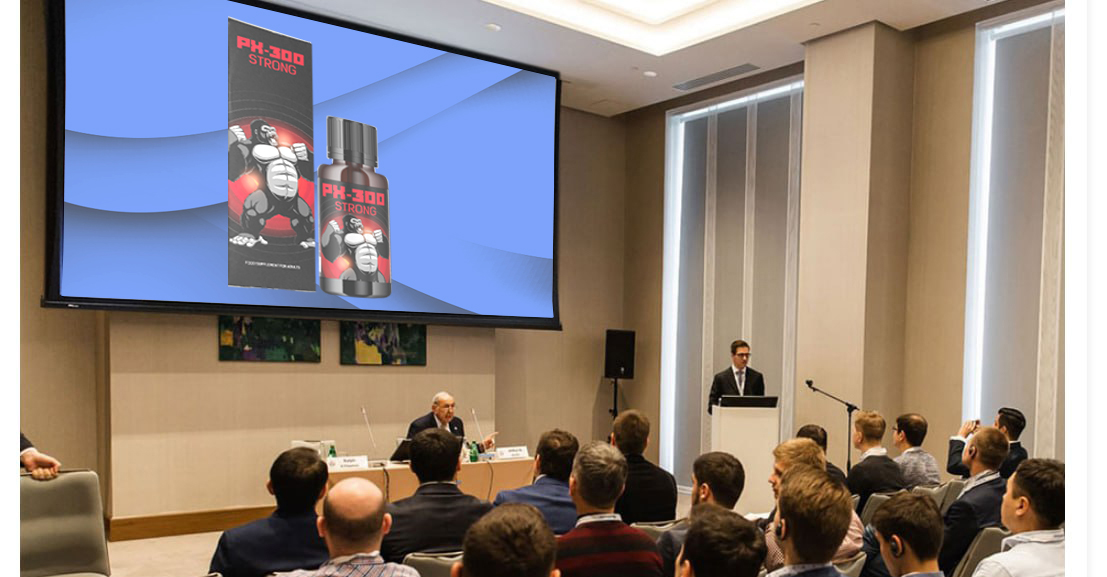
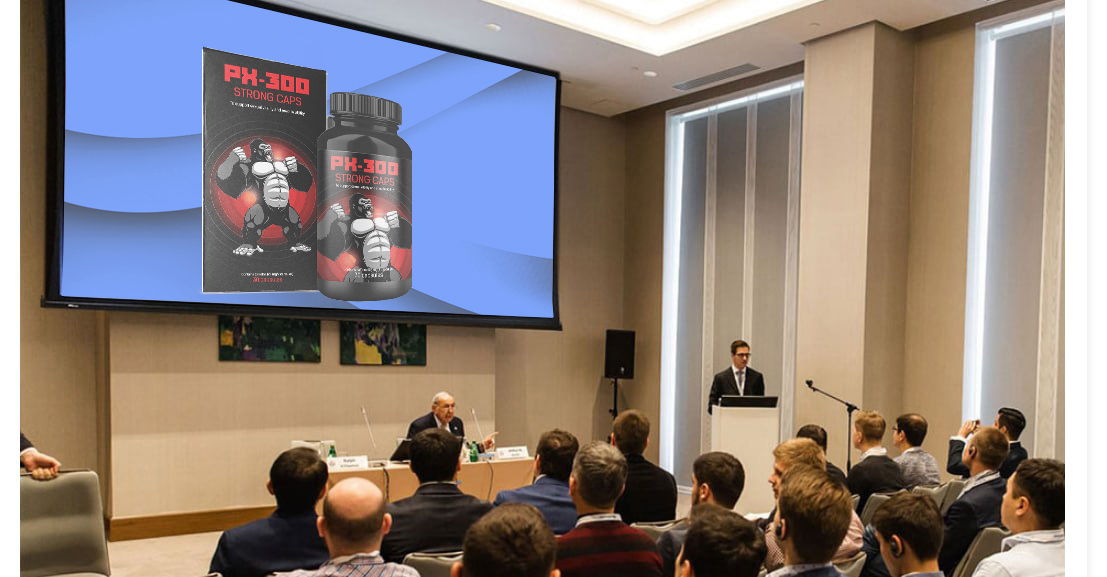
Changed prod to caps

Changed region(s): [[0.1843, 0.0312, 0.3993, 0.5303]]

diff --git a/index.html b/index.html
@@ -554,7 +554,9 @@
                         </span>
                     <div class="text3">
                         <img src="images/pics/review-4.jpeg" style="float: left; padding-right: 10px;" alt>Non me lo aspettavo, ma ha funzionato! Rimane duro come una roccia! Mia moglie è soddisfatta!
-
+                      <p>
+                        <img style="width:200px !important;" src="images/pics/pic-comment-3.jpg">
+                      </p>
                     </div>
                 </div>
                 
@@ -587,7 +589,9 @@
                         </span>
                     <div class="text3">
                         <img src="images/16.jpg" style="float: left; padding-right: 10px;" alt>Voglio condividere la mia recensione anch'io! Inizialmente, quando ordinavo il PX-300, avevo dei dubbi! Nemmeno mia moglie lo sapeva. E cosa pensi - dopo il corso posso davvero fare sesso per circa un'ora, se non di più. Se prima non avrei nemmeno sognato una cosa del genere (dopotutto, con gli anni la potenza stava diminuendo), ora mi sento di nuovo un gigante sessuale. In generale, consiglio a tutti di provare questo farmaco! Non ve ne pentirete!
-
+<p>
+  <img style="width:200px !important;" src="images/pics/pic-comment-2.jpg">
+</p>
 
                     </div>
                 </div>
